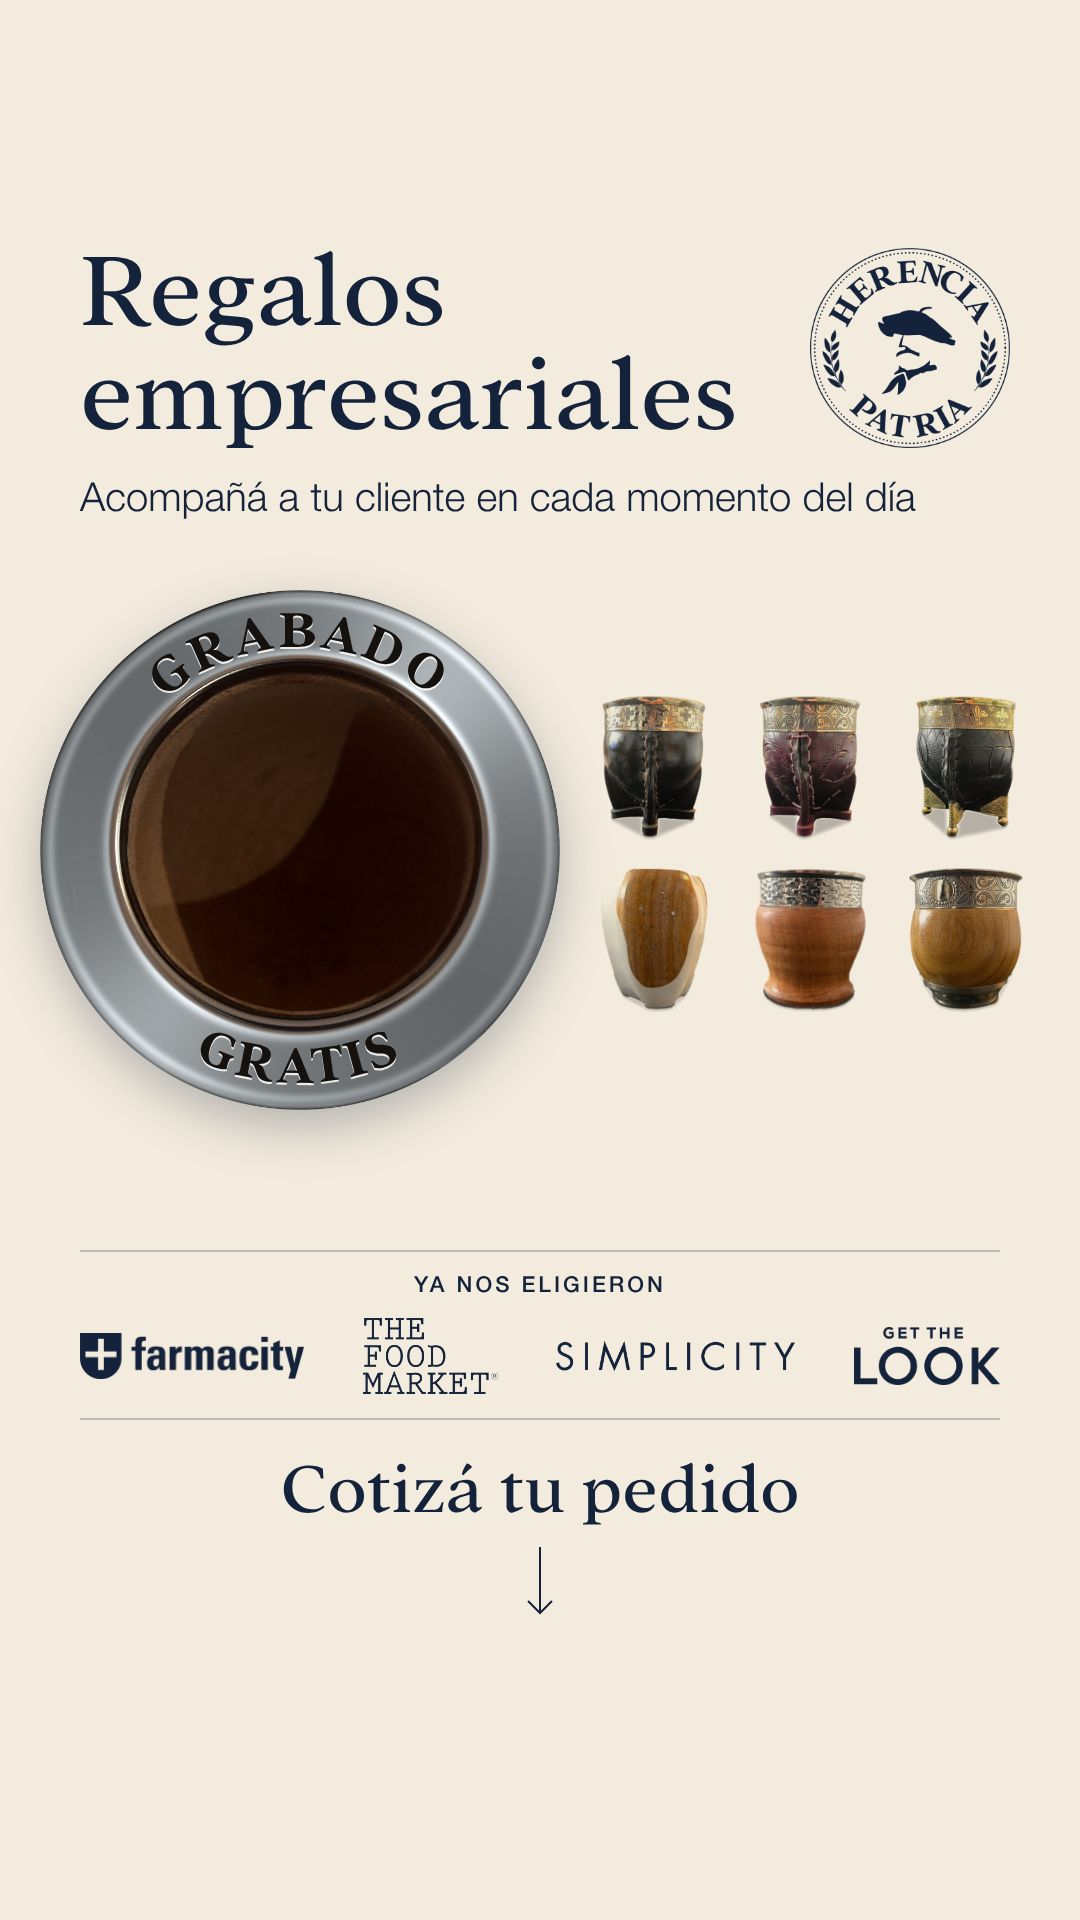
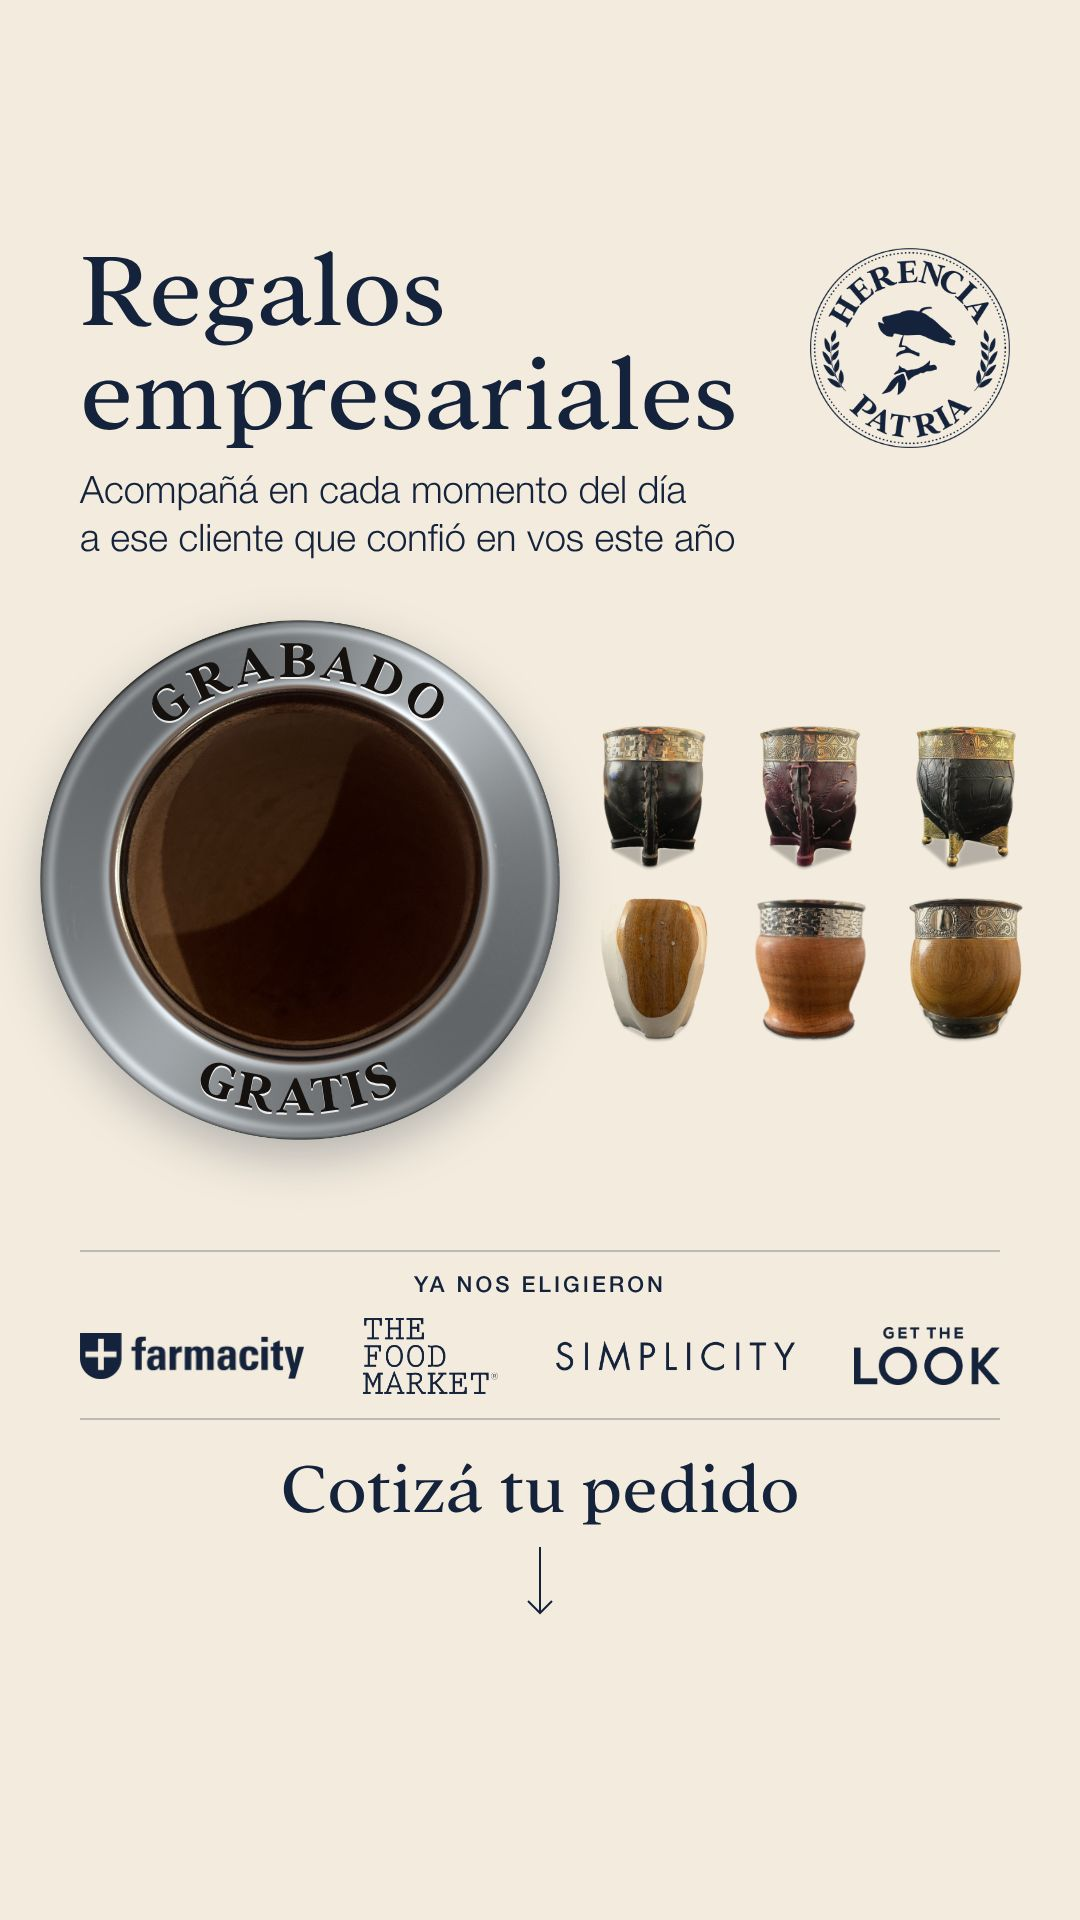
Historia empresarial B: bajada sobre el cliente que confió este año
Claude-Session: https://claude.ai/code/session_012H3xPSmbqKoMmc2aK7okNH

diff --git a/src/HerenciaPatria/HistoriaEmpresasLogo.tsx b/src/HerenciaPatria/HistoriaEmpresasLogo.tsx
@@ -14,7 +14,7 @@ const margen = 80;
 
 export const HistoriaEmpresasLogo: React.FC<{
   readonly titulo: string[];
-  readonly bajada: string;
+  readonly bajada: string[];
   // El mate grande, visto desde arriba y recortado en círculo justo en el
   // borde del aro (la foto real, sin el fondo), y lo que va grabado en el
   // aro: una palabra arriba y otra abajo.
@@ -43,7 +43,7 @@ export const HistoriaEmpresasLogo: React.FC<{
   // El mate grande, a la izquierda.
   const lado = 520;
   const x0 = 40;
-  const y0 = 590;
+  const y0 = 620;
   // Los otros modelos: una grilla chica a la derecha del aro.
   const chico = 200;
   const xGrilla = 570;
@@ -75,14 +75,17 @@ export const HistoriaEmpresasLogo: React.FC<{
       <div
         style={{
           position: "absolute",
-          top: 478,
+          top: 472,
           left: margen,
           fontFamily: fonts.sans,
           fontWeight: 300,
-          fontSize: 40,
+          fontSize: 38,
+          lineHeight: 1.25,
         }}
       >
-        {bajada}
+        {bajada.map((l) => (
+          <div key={l}>{l}</div>
+        ))}
       </div>
       <Img
         src={staticFile(heroe)}

diff --git a/src/Root.tsx b/src/Root.tsx
@@ -431,7 +431,10 @@ export const RemotionRoot: React.FC = () => {
         height={1920}
         defaultProps={{
           titulo: ["Regalos", "empresariales"],
-          bajada: "Acompañá a tu cliente en cada momento del día",
+          bajada: [
+            "Acompañá en cada momento del día",
+            "a ese cliente que confió en vos este año",
+          ],
           heroe: "mate-boca-arriba.png",
           grabado: ["Grabado", "gratis"] as [string, string],
           // Arriba los de calabaza (simple, repujado y base bolita); abajo
